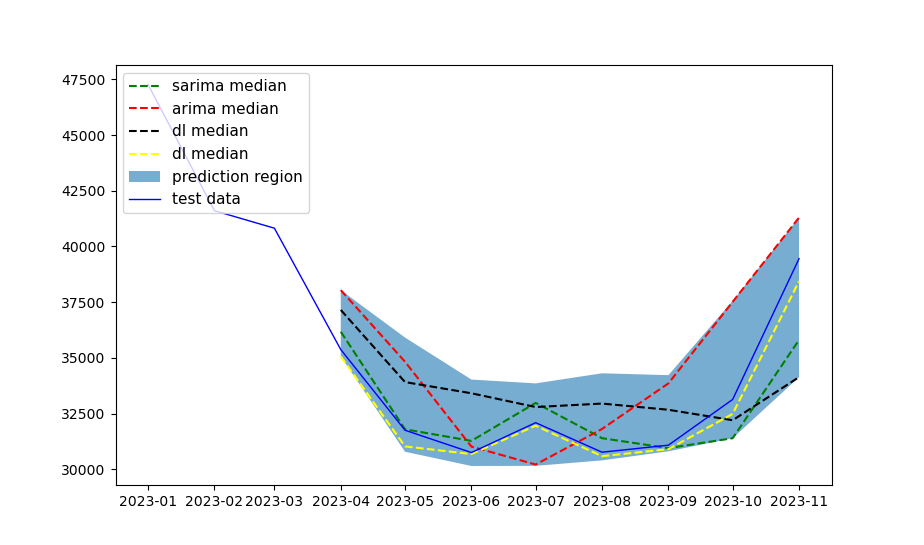
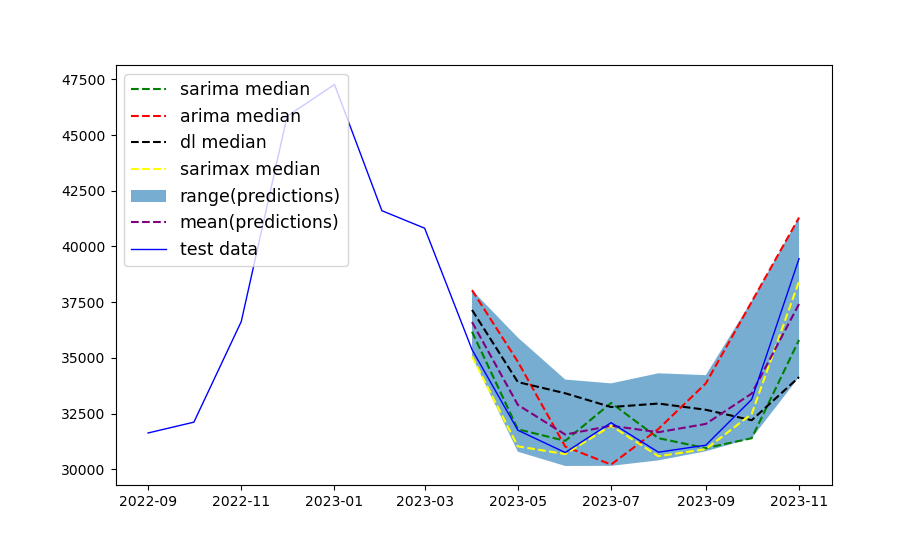
adding extra details

diff --git a/src/data_visualization.py b/src/data_visualization.py
@@ -78,8 +78,12 @@ def visualize_model_performance_all():
     plt.show()
 
 
-def firstIteration(list):
+def median_calc(list):
     return (max(list) + min(list)) / 2
+
+
+def mean_calc(list):
+    return sum(list) / len(list)
 
 
 def visualize_pred_margin(country, energy):
@@ -98,10 +102,10 @@ def visualize_pred_margin(country, energy):
         lambda x: ast.literal_eval(x)
     )
 
-    df["s_mean"] = df["sarima_prediction"].apply(firstIteration)
-    df["a_mean"] = df["arima_prediction"].apply(firstIteration)
-    df["d_mean"] = df["dl_prediction"].apply(firstIteration)
-    df["sx_mean"] = df["sarimax_prediction"].apply(firstIteration)
+    df["s_mean"] = df["sarima_prediction"].apply(median_calc)
+    df["a_mean"] = df["arima_prediction"].apply(median_calc)
+    df["d_mean"] = df["dl_prediction"].apply(median_calc)
+    df["sx_mean"] = df["sarimax_prediction"].apply(median_calc)
 
     df["merged"] = df.apply(
         lambda row: row["arima_prediction"]
@@ -112,24 +116,38 @@ def visualize_pred_margin(country, energy):
     )
     df["min_range"] = df["merged"].apply(min)
     df["max_range"] = df["merged"].apply(max)
+    df["mean"] = df["merged"].apply(mean_calc)
     plt.plot(
         df.index, df["s_mean"], color="green", linestyle="--", label="sarima median"
     )
     plt.plot(df.index, df["a_mean"], color="red", linestyle="--", label="arima median")
     plt.plot(df.index, df["d_mean"], color="black", linestyle="--", label="dl median")
-    plt.plot(df.index, df["sx_mean"], color="yellow", linestyle="--", label="dl median")
+    plt.plot(
+        df.index, df["sx_mean"], color="yellow", linestyle="--", label="sarimax median"
+    )
 
     plt.fill_between(
-        df.index, df["max_range"], df["min_range"], alpha=0.6, label="prediction region"
+        df.index,
+        df["max_range"],
+        df["min_range"],
+        alpha=0.6,
+        label="range(predictions)",
     )
     plt.plot(
-        source.index[84:],
-        source[84:],
+        df.index,
+        df["mean"],
+        color="purple",
+        linestyle="--",
+        label="mean(predictions)",
+    )
+    plt.plot(
+        source.index[72:],
+        source[72:],
         color="blue",
         linewidth=1.0,
         label="test data",
     )
-    plt.legend(fontsize=11, loc="upper left")
+    plt.legend(fontsize=12.5, loc="upper left")
     # plt.title(country + " " + energy + " energy production forecast", fontsize=14)
     plt.show()
 
@@ -141,4 +159,4 @@ def visual_narrative(c, e):
     visualize_model_performance(c, e)
 
 
-visual_narrative("France", "demand")
+visual_narrative("France", "solar")

diff --git a/src/rebasement_exo.py b/src/rebasement_exo.py
@@ -4,16 +4,16 @@ import pandas as pd
 from forecasting import sarimax_prediction, sarima_prediction, arima_prediction
 import matplotlib.pyplot as plt
 
-data = organize_table("France")
-df = organize_rebasement("France", "demand", max(data.index))
-# print(df)
-prediction = sarimax_prediction(data["demand"], 6, df["rebasement"]).rename("SARIMAX")
-(_, z, _) = sarima_prediction(data["demand"], 6)
-(_, l, _) = arima_prediction(data["demand"], 6)
-# data["hydro_nops"][60:].plot(legend=True, figsize=(16, 10))
-df[80:].plot(legend=True)
-prediction.plot(legend=True)
-z.plot(legend=True)
-l.plot(legend=True)
-# print(prediction)
-plt.show()
+# data = organize_table("France")
+# df = organize_rebasement("France", "demand", max(data.index))
+# # print(df)
+# prediction = sarimax_prediction(data["demand"], 6, df["rebasement"]).rename("SARIMAX")
+# (_, z, _) = sarima_prediction(data["demand"], 6)
+# (_, l, _) = arima_prediction(data["demand"], 6)
+# # data["hydro_nops"][60:].plot(legend=True, figsize=(16, 10))
+# df[80:].plot(legend=True)
+# prediction.plot(legend=True)
+# z.plot(legend=True)
+# l.plot(legend=True)
+# # print(prediction)
+# plt.show()

diff --git a/src/demand_forecasting.py b/src/demand_forecasting.py
@@ -1,0 +1,24 @@
+from data_reader import organize_table, organize_rebasement
+from forecasting import progressive_prediction
+from variables import SARIMAX
+import pandas as pd
+
+countries = ["Netherlands", "Romania", "Hungary"]
+energy = "demand"
+
+for country in countries:
+    df = organize_table(country)
+    (result, prediction) = progressive_prediction(df, energy, country, SARIMAX)
+    result.to_csv(
+        "../demand_forecasts/" + country + "_analysis.csv", index=True, encoding="utf-8"
+    )
+    df = pd.DataFrame(
+        list(prediction.items()), columns=["date", SARIMAX + " predictions"]
+    )
+    df = df.set_index("date")
+    print(df)
+    df.to_csv(
+        "../demand_forecasts/" + country + "_predicted_monthly_demand.csv",
+        index=True,
+        encoding="utf-8",
+    )
